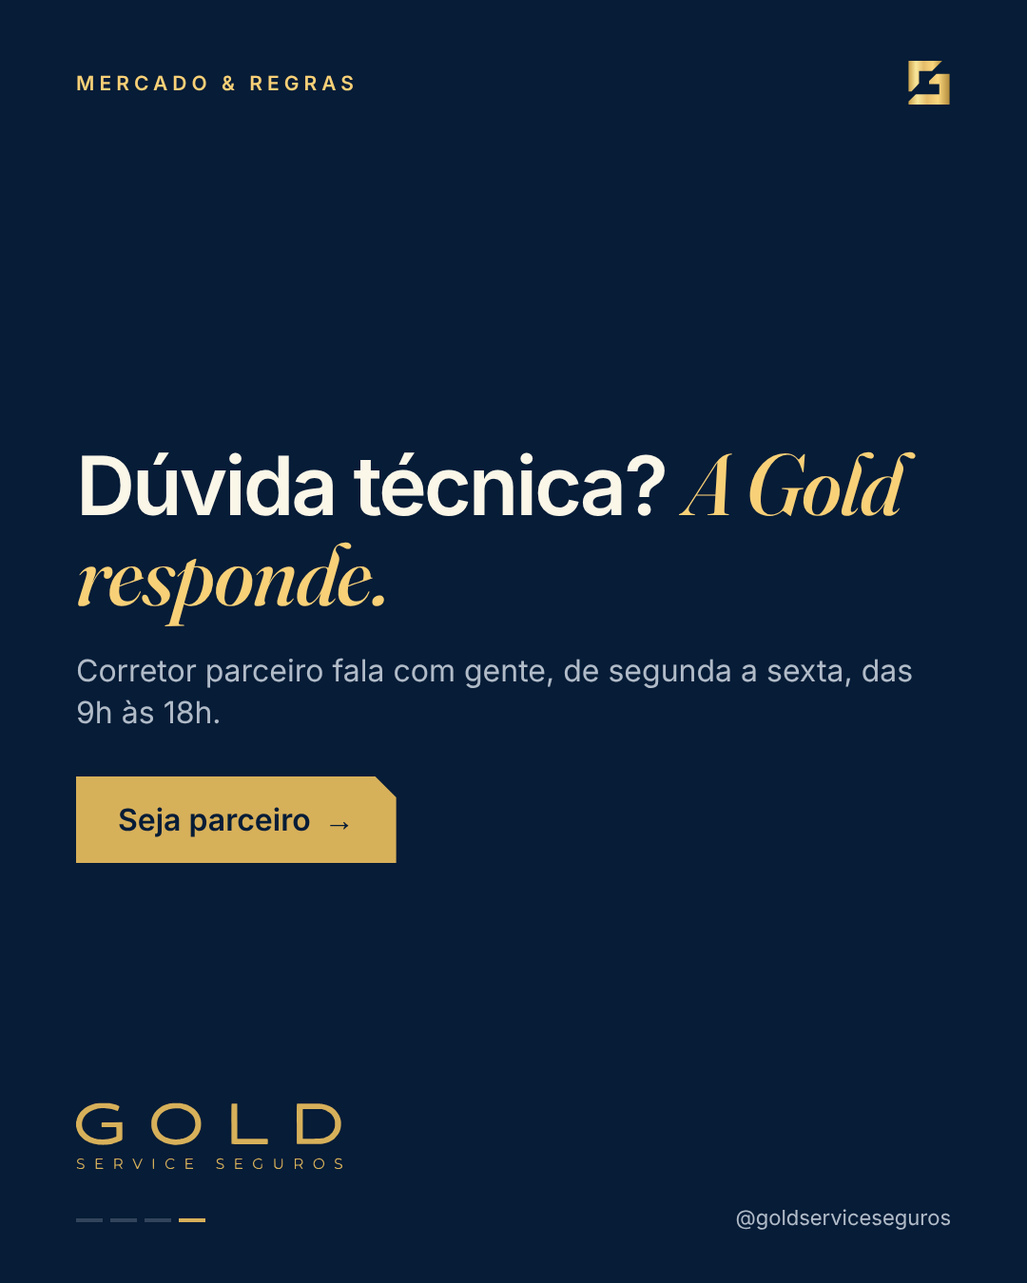
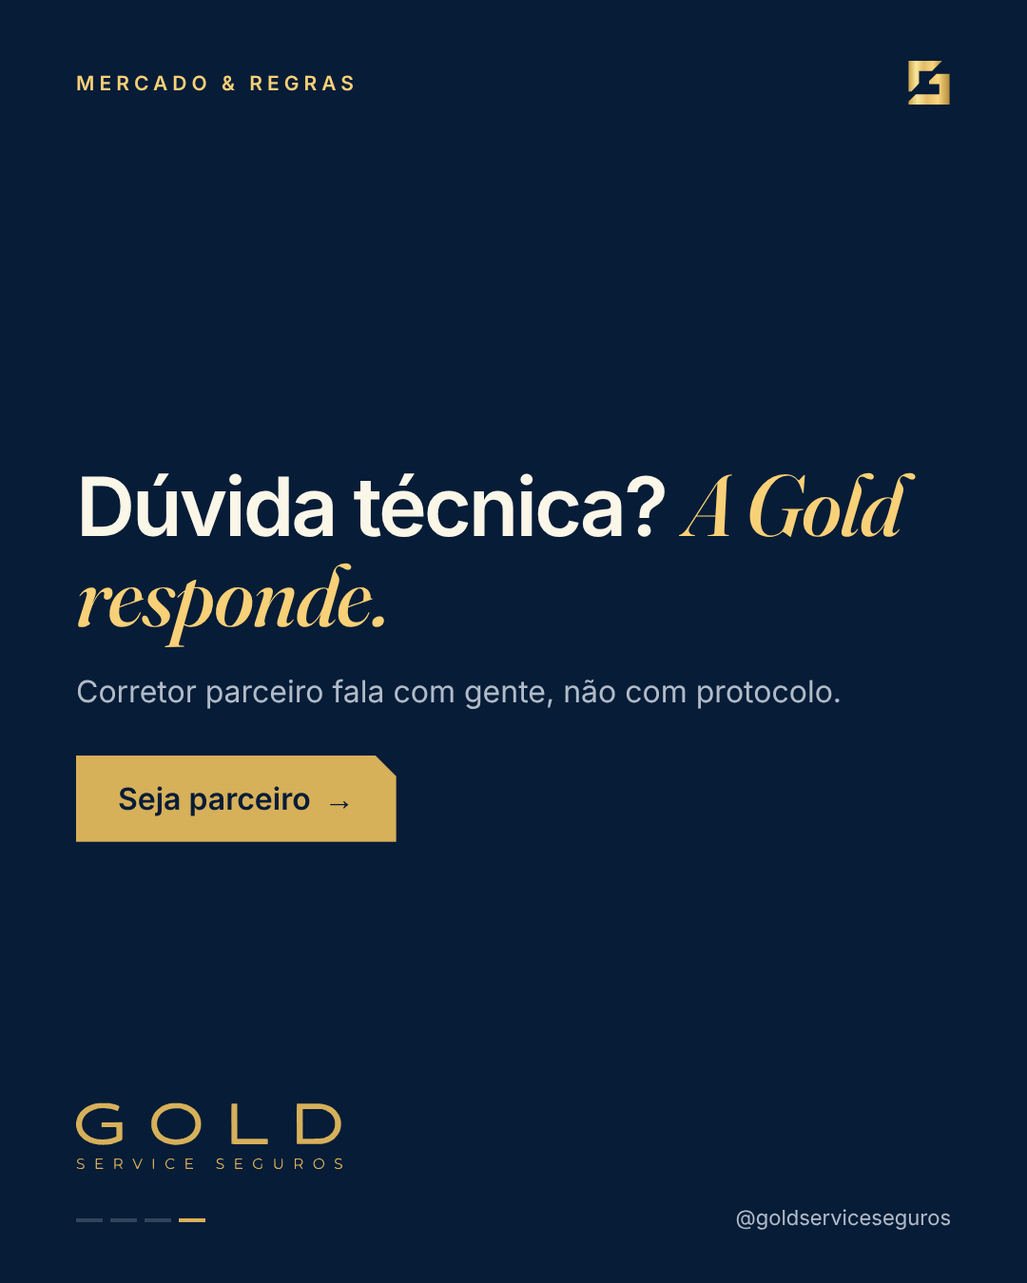
Tira o horário de atendimento de todos os posts e da voz da esteira
Claude-Session: https://claude.ai/code/session_01P6fnS5GPBSSnL9WmmhDJF1

Changed region(s): [[0.0611, 0.3422, 0.8861, 0.6844]]

diff --git a/brand/carrosseis-v3/02-nova-lei-do-seguro/v1/slide-04.html b/brand/carrosseis-v3/02-nova-lei-do-seguro/v1/slide-04.html
@@ -62,7 +62,7 @@ em{font-family:Fraunces,Georgia,serif;font-style:italic;font-weight:500;color:va
 </style></head>
 <body class="navy" data-size="1080x1350" style="width:1080px;height:1350px;">
   <div class="topo"><span class="eb">Mercado & regras</span><img src="../../assets/monograma.svg" alt=""></div>
-  <div class="miolo centro" style="top:160px;bottom:140px"><h1 class="titulo ">Dúvida técnica? <em>A Gold responde.</em></h1><p class="apoio">Corretor parceiro fala com gente, de segunda a sexta, das 9h às 18h.</p><span class="botao">Seja parceiro <span>→</span></span></div>
+  <div class="miolo centro" style="top:160px;bottom:140px"><h1 class="titulo ">Dúvida técnica? <em>A Gold responde.</em></h1><p class="apoio">Corretor parceiro fala com gente, não com protocolo.</p><span class="botao">Seja parceiro <span>→</span></span></div>
   <div class="wordmark"><svg xmlns="http://www.w3.org/2000/svg" viewBox="0 0 1724 432"><path fill="currentColor" fill-rule="evenodd" d="M19.5,431.0C19.2,430.5 16.6,429.4 13.8,428.5C7.7,426.7 5.0,424.5 5.0,421.3C5.0,418.2 8.9,418.2 14.4,421.4C19.3,424.2 31.2,425.6 37.0,424.0C41.4,422.8 47.0,417.0 47.0,413.6C47.0,409.6 41.2,404.3 34.3,402.0C30.9,400.9 26.8,400.0 25.3,400.0C21.6,399.9 14.2,396.5 10.8,393.3C9.1,391.6 7.6,388.8 6.9,385.4C5.2,378.0 6.7,373.4 12.4,368.2C17.6,363.4 21.9,362.5 34.6,363.3C43.5,363.8 51.2,366.9 51.8,370.3C52.4,373.1 49.1,373.4 42.1,371.2C25.1,365.7 10.9,371.8 14.0,383.2C15.5,388.6 18.8,390.9 29.1,393.6C34.2,394.9 39.1,396.0 40.1,396.0C42.8,396.0 51.1,403.0 52.6,406.6C55.8,414.3 53.3,424.1 47.2,427.2C45.4,428.1 43.1,429.5 42.1,430.4C40.7,431.6 38.1,432.0 30.2,432.0C24.7,432.0 19.8,431.6 19.5,431.0ZM127.6,428.2C127.3,426.2 127.0,411.2 127.0,394.9C127.0,373.3 127.3,365.1 128.2,364.2C129.5,362.9 168.3,362.4 171.4,363.6C172.3,363.9 173.0,365.0 173.0,365.9C173.0,369.6 171.0,370.0 154.4,370.0C145.5,370.0 137.5,370.3 136.6,370.6C134.2,371.5 134.2,392.5 136.6,393.4C137.5,393.7 144.5,394.0 152.3,394.0C160.1,394.0 167.1,394.4 167.8,394.9C168.6,395.4 169.0,396.6 168.8,397.6C168.5,399.4 167.2,399.5 152.5,399.8C143.7,399.9 136.2,400.4 135.7,400.9C134.7,401.9 134.5,421.9 135.5,422.8C135.9,423.2 143.6,423.3 152.8,423.2C174.7,422.7 176.4,423.2 175.3,429.3L174.8,432.0L151.5,432.0L128.3,432.0L127.6,428.2ZM248.6,430.4C248.3,429.5 248.0,414.3 248.0,396.4L248.0,364.0L250.5,363.4C251.9,363.0 259.9,362.9 268.3,363.2C282.6,363.6 283.8,363.8 289.1,366.4C296.9,370.4 300.4,376.6 300.4,386.5C300.4,392.4 300.0,394.3 297.7,398.2C296.3,400.7 293.5,403.7 291.5,404.9C289.3,406.2 288.0,407.7 288.0,409.0C288.0,410.2 290.5,414.5 293.6,418.7C296.7,422.9 299.6,427.6 300.0,429.1C300.8,431.8 300.7,432.0 298.2,431.9C295.3,431.9 292.4,428.7 283.5,416.1L278.5,408.9L267.5,409.2L256.5,409.5L256.3,415.5C256.1,418.8 255.8,423.9 255.4,426.8C254.9,431.7 254.7,432.0 252.0,432.0C250.4,432.0 249.0,431.3 248.6,430.4ZM393.0,428.8C391.1,424.0 390.1,421.7 380.5,399.5C368.5,371.9 368.0,370.7 366.9,368.8C365.5,366.0 365.8,364.2 368.0,363.5C370.8,362.6 373.6,364.5 374.9,368.2C375.6,370.0 376.8,372.9 377.5,374.5C378.2,376.1 380.0,380.4 381.5,384.0C384.2,390.5 385.1,392.5 390.8,405.0C392.5,408.6 394.5,413.2 395.4,415.3C396.3,417.4 397.5,419.0 398.1,418.8C398.7,418.6 403.9,407.6 409.7,394.5C415.4,381.3 420.8,369.0 421.7,367.3C423.6,363.5 426.6,362.2 428.7,364.2C429.9,365.5 429.5,367.2 424.9,377.6C422.1,384.1 418.3,392.6 416.5,396.5C414.7,400.4 411.8,406.9 410.1,411.0C401.2,431.9 401.1,432.0 397.5,432.0C394.8,432.0 394.0,431.5 393.0,428.8ZM498.1,428.9C496.8,425.1 496.6,367.2 497.9,365.2C498.4,364.4 500.0,364.0 501.6,364.2L504.5,364.5L504.8,395.6C504.9,414.5 504.6,427.8 504.0,429.4C502.6,433.1 499.5,432.8 498.1,428.9ZM601.4,430.9C601.1,430.3 598.9,429.0 596.6,428.0C583.0,422.1 574.8,403.0 579.4,387.9C582.2,378.9 587.9,372.1 597.5,366.4C602.2,363.7 603.2,363.5 613.0,363.5C623.1,363.5 623.7,363.6 629.3,366.9C635.8,370.6 637.8,373.3 635.9,375.6C634.4,377.5 631.6,377.4 629.9,375.4C629.2,374.6 626.4,372.7 623.6,371.3C619.4,369.1 617.7,368.9 613.0,369.4C605.0,370.2 600.5,371.7 597.1,374.6C592.5,378.5 588.2,385.4 586.6,391.7C583.6,403.3 588.8,415.4 599.8,422.2C602.9,424.1 604.6,424.4 613.1,424.2C622.1,424.1 623.3,423.8 627.8,421.0C633.6,417.5 634.6,417.3 636.0,420.0C636.9,421.7 636.6,422.5 633.8,425.0C632.0,426.7 630.0,428.0 629.4,428.0C628.8,428.0 627.5,428.9 626.5,430.0C624.9,431.8 623.4,432.0 613.4,432.0C606.4,432.0 601.9,431.6 601.4,430.9ZM710.3,430.8C709.9,430.1 709.4,415.0 709.2,397.2L708.9,365.0L711.5,364.0C713.0,363.4 723.3,363.0 734.6,363.0C752.6,363.0 755.1,363.2 755.7,364.6C756.0,365.5 755.9,367.0 755.3,367.9C754.4,369.3 751.6,369.5 737.0,369.8C726.3,369.9 719.1,370.5 718.3,371.1C716.5,372.7 716.5,391.3 718.3,392.9C719.1,393.5 725.9,394.1 735.6,394.2L751.5,394.5L751.5,397.0L751.5,399.5L736.5,399.7C715.1,400.1 717.0,398.9 717.0,412.0C717.0,420.1 717.3,423.0 718.2,423.1C718.9,423.2 727.4,423.2 737.0,423.1C757.0,422.8 759.3,423.4 757.5,428.7L756.5,431.5L733.8,431.8C716.4,432.0 711.0,431.7 710.3,430.8ZM923.0,431.0C923.0,430.5 920.6,429.4 917.6,428.5C911.6,426.8 907.4,423.0 908.4,420.4C909.2,418.2 914.8,419.0 919.0,422.0C921.4,423.7 923.6,424.1 931.2,424.3C942.0,424.5 946.2,422.8 949.4,416.9L951.4,413.3L949.0,409.5C946.2,405.0 939.2,401.5 929.4,400.0C917.6,398.1 911.2,392.2 910.3,382.4C909.5,373.9 912.0,369.4 919.4,365.6C926.4,362.0 931.2,361.4 940.8,363.0C950.0,364.4 955.0,367.1 955.0,370.6C955.0,373.6 952.5,373.8 945.2,371.0C930.6,365.4 915.5,371.6 917.5,382.4C918.6,388.1 922.8,391.1 933.3,393.7C938.3,394.9 943.2,396.0 944.0,396.0C944.8,396.0 947.7,397.7 950.4,399.8C957.5,405.2 959.8,412.8 956.5,420.7C954.9,424.6 953.3,426.1 948.2,428.6C946.5,429.5 945.0,430.6 945.0,431.1C945.0,431.6 940.0,432.0 934.0,432.0C927.5,432.0 923.0,431.6 923.0,431.0ZM1030.6,429.7C1030.3,428.4 1030.0,413.5 1030.0,396.5C1029.9,368.0 1030.0,365.5 1031.7,364.3C1033.0,363.3 1038.5,363.0 1054.5,363.2L1075.5,363.5L1075.8,365.9C1076.0,367.2 1075.6,368.7 1074.8,369.1C1074.1,369.6 1065.8,370.0 1056.3,370.0C1040.3,370.0 1039.0,370.1 1038.0,371.9C1036.6,374.7 1036.7,390.2 1038.2,392.3C1039.3,393.7 1041.9,394.0 1055.5,394.2L1071.5,394.5L1071.5,397.0L1071.5,399.5L1055.6,399.8C1045.9,399.9 1039.1,400.5 1038.3,401.1C1036.7,402.5 1036.5,421.1 1038.0,422.6C1038.7,423.3 1045.1,423.5 1056.5,423.2C1071.5,422.8 1074.3,423.0 1076.4,424.4C1078.6,425.8 1078.8,426.3 1077.9,429.0L1076.8,432.0L1054.0,432.0L1031.2,432.0L1030.6,429.7ZM1170.1,430.0C1168.8,428.9 1167.1,428.0 1166.3,428.0C1164.3,428.0 1158.2,424.3 1154.9,421.0C1146.1,412.3 1142.6,397.2 1146.7,386.0C1151.6,372.9 1161.1,365.3 1175.7,362.9C1181.8,361.9 1183.9,362.0 1189.3,363.3C1198.2,365.6 1204.0,369.5 1204.0,373.2C1204.0,377.0 1200.2,377.4 1196.5,374.0C1194.0,371.7 1184.5,369.0 1179.1,369.0C1173.3,369.0 1162.8,374.2 1159.3,378.8C1154.7,384.8 1153.0,389.5 1153.0,396.3C1153.0,408.0 1158.4,416.7 1168.9,421.6C1178.1,426.0 1194.4,424.9 1197.7,419.8C1198.1,419.1 1198.7,413.8 1199.0,408.0C1199.5,397.6 1199.5,397.5 1202.0,397.5L1204.5,397.5L1204.8,410.1L1205.1,422.8L1202.3,425.0C1193.8,431.5 1192.5,432.0 1182.2,432.0C1174.1,431.9 1172.1,431.6 1170.1,430.0ZM1298.0,430.4C1297.2,429.5 1294.9,427.9 1293.0,426.7C1291.1,425.5 1288.2,422.5 1286.5,420.2L1283.5,415.8L1283.2,390.9C1282.8,365.8 1283.2,363.0 1286.4,363.0C1290.3,363.1 1290.5,364.2 1291.0,389.2C1291.5,412.3 1291.6,413.7 1293.7,416.3C1301.1,425.8 1315.7,427.6 1324.3,420.1C1330.0,415.0 1331.0,410.2 1331.1,386.9C1331.1,364.7 1331.8,361.2 1335.7,363.6C1337.3,364.6 1337.5,366.7 1337.8,385.6C1338.2,416.0 1336.8,420.6 1324.3,429.0C1320.1,431.9 1319.4,432.0 1309.7,431.9C1302.1,431.9 1299.1,431.5 1298.0,430.4ZM1416.6,430.4C1416.3,429.5 1416.0,414.3 1416.0,396.4L1416.0,364.0L1418.5,363.4C1419.9,363.0 1428.0,362.9 1436.3,363.2C1450.3,363.5 1452.0,363.8 1456.6,366.1C1465.5,370.8 1469.9,380.8 1467.9,391.6C1466.9,396.9 1463.5,402.3 1459.8,404.5C1454.8,407.4 1454.7,409.0 1459.2,415.6C1461.4,418.8 1464.1,422.4 1465.1,423.6C1467.4,426.1 1467.7,432.0 1465.5,432.0C1463.4,432.0 1458.0,425.9 1451.8,416.8L1446.6,409.0L1435.8,409.0C1423.1,409.0 1422.7,409.4 1423.1,419.4C1423.5,431.3 1423.4,432.0 1420.1,432.0C1418.4,432.0 1417.0,431.4 1416.6,430.4ZM1560.0,431.1C1560.0,430.6 1557.4,428.9 1554.3,427.3C1543.9,422.2 1537.0,409.9 1537.0,396.8C1537.0,378.9 1547.6,366.6 1565.9,363.1C1586.4,359.1 1605.5,373.3 1607.7,394.2C1608.4,401.0 1605.5,410.9 1600.8,417.8C1597.8,422.1 1590.7,428.0 1588.5,428.0C1587.8,428.0 1586.1,428.9 1584.7,430.0C1582.5,431.7 1580.7,432.0 1571.1,432.0C1564.9,432.0 1560.0,431.6 1560.0,431.1ZM1687.5,430.4C1686.4,429.6 1683.6,428.4 1681.3,427.8C1678.7,427.2 1676.5,425.8 1675.4,424.3C1673.9,421.9 1673.9,421.6 1675.8,419.7L1677.9,417.7L1682.7,420.7C1686.5,423.1 1689.1,423.9 1694.8,424.4C1703.7,425.2 1708.8,424.0 1712.9,420.1C1721.2,412.4 1712.6,402.5 1695.6,400.1C1688.4,399.0 1681.9,395.6 1678.5,391.0C1675.0,386.3 1674.9,375.7 1678.2,371.4C1685.0,362.6 1694.3,360.3 1709.4,363.5C1717.0,365.1 1720.0,367.1 1720.0,370.6C1720.0,374.1 1718.4,374.4 1713.2,371.8C1706.3,368.5 1695.1,368.2 1689.0,371.2C1684.0,373.8 1682.6,377.0 1683.6,383.2C1684.4,388.5 1688.5,391.1 1700.5,393.9C1711.6,396.5 1715.9,398.6 1720.8,403.8C1723.7,407.0 1724.0,407.8 1724.0,413.8C1724.0,419.9 1723.8,420.5 1720.2,424.1C1718.2,426.3 1716.0,428.0 1715.4,428.0C1714.8,428.0 1713.1,428.9 1711.7,430.0C1709.6,431.7 1707.7,432.0 1699.3,432.0C1692.1,431.9 1689.0,431.5 1687.5,430.4ZM1583.5,421.7C1590.5,418.2 1594.1,414.8 1597.1,408.9C1602.7,397.7 1600.2,385.1 1590.7,376.3C1585.4,371.4 1580.1,369.6 1570.5,369.6C1562.2,369.6 1557.3,371.7 1551.7,377.9C1548.3,381.7 1544.0,392.4 1544.0,397.1C1544.0,400.3 1548.2,411.2 1550.9,415.1C1553.5,418.8 1561.7,423.5 1567.0,424.3C1571.5,425.0 1579.4,423.8 1583.5,421.7ZM282.3,401.0C289.3,398.4 292.1,395.3 292.7,389.6C293.5,382.8 292.3,378.4 288.7,375.0C284.6,371.2 278.1,369.8 266.0,370.2L256.5,370.5L256.2,385.5C256.1,393.7 256.2,401.0 256.4,401.7C257.3,403.9 275.8,403.4 282.3,401.0ZM1449.1,401.5C1458.3,398.3 1462.0,392.2 1460.6,382.7C1459.8,377.7 1455.6,373.0 1450.1,371.1C1448.2,370.5 1441.8,370.0 1435.8,370.0C1425.1,370.0 1424.9,370.0 1424.0,372.6C1422.7,376.0 1422.7,398.6 1424.0,401.1C1425.0,402.8 1426.2,403.0 1434.9,403.0C1441.0,403.0 1446.3,402.4 1449.1,401.5ZM152.5,274.0C149.2,273.5 141.9,272.7 136.2,272.1C130.5,271.4 124.8,270.5 123.3,269.9C121.9,269.4 117.7,268.5 114.0,268.0C110.4,267.5 106.0,266.4 104.4,265.5C102.8,264.7 100.8,264.0 100.0,264.0C99.2,264.0 96.7,263.1 94.5,262.0C92.3,260.9 89.9,260.1 89.2,260.0C88.5,260.0 86.2,259.1 84.2,258.1C82.2,257.0 76.0,254.0 70.5,251.4C56.7,244.7 47.5,237.8 33.9,223.9C20.2,209.9 15.6,202.7 6.6,180.5C5.7,178.3 4.5,173.9 4.0,170.6C3.5,167.4 2.4,163.7 1.5,162.4C0.3,160.5 0.0,156.6 0.0,142.2C0.0,126.4 0.2,124.0 2.0,120.5C3.1,118.3 4.0,115.3 4.0,113.8C4.0,110.3 7.5,98.6 10.1,93.8C11.1,91.8 12.0,89.5 12.0,88.8C12.1,87.3 19.5,75.0 25.6,66.3C27.9,63.1 33.1,57.3 37.1,53.5C45.3,45.7 62.7,32.0 64.3,32.0C64.9,32.0 66.1,31.4 66.9,30.6C68.7,29.0 86.0,20.0 87.3,20.0C87.8,20.0 89.6,19.3 91.3,18.5C95.3,16.7 102.1,14.2 108.0,12.5C110.5,11.7 114.5,10.4 117.0,9.6C123.3,7.5 133.6,5.9 146.5,5.0C161.3,3.9 211.4,3.9 217.0,5.0C219.5,5.5 225.3,6.6 230.0,7.4C234.7,8.3 240.8,9.7 243.5,10.6C246.2,11.4 251.7,13.0 255.5,14.2C259.4,15.3 264.5,17.1 267.0,18.0C269.5,19.0 272.9,20.4 274.7,21.0C281.5,23.5 282.3,27.6 277.9,36.0C276.8,37.9 276.0,40.2 276.0,41.0C276.0,41.9 275.4,43.5 274.6,44.6C273.8,45.7 272.7,48.5 272.1,50.8C270.8,55.5 268.6,56.2 263.4,53.5C261.8,52.7 259.8,52.0 259.0,52.0C258.2,52.0 256.2,51.3 254.6,50.5C253.0,49.6 250.0,48.5 248.1,48.0C246.1,47.5 242.5,46.5 240.0,45.6C228.7,41.9 218.2,40.2 192.0,38.0C174.5,36.5 139.4,39.2 131.2,42.6C129.3,43.4 127.0,44.0 126.1,44.0C124.6,44.0 120.1,45.6 108.5,50.2C90.8,57.3 70.3,71.2 61.7,81.8C56.3,88.6 48.0,100.8 48.0,102.0C48.0,102.6 47.1,104.8 46.1,106.8C39.6,119.4 37.0,136.2 38.9,152.2C40.7,166.5 44.0,175.1 52.9,188.5C61.7,201.7 76.6,214.7 91.0,221.6C101.1,226.5 104.8,228.0 106.1,228.0C106.9,228.0 108.8,228.7 110.4,229.5C112.0,230.4 115.0,231.5 116.9,232.0C118.9,232.5 122.5,233.5 125.0,234.3C136.7,238.1 149.2,239.5 171.0,239.5C199.6,239.5 213.5,237.4 240.0,229.3C244.7,227.8 249.4,226.0 250.5,225.3C251.6,224.6 253.2,224.0 254.2,224.0C255.1,224.0 257.0,223.0 258.4,221.8L261.0,219.5L261.1,190.7C261.1,174.9 260.8,161.5 260.5,161.0C260.1,160.4 243.4,160.0 214.0,160.0C188.8,160.0 167.5,159.7 166.6,159.4C165.2,158.9 165.0,156.7 165.0,145.1C165.0,137.6 165.4,130.9 165.9,130.1C166.7,128.9 177.4,128.7 233.2,128.6L299.5,128.5L299.8,183.9C300.0,229.5 299.8,239.7 298.6,241.4C297.3,243.5 285.6,249.7 275.0,254.0C272.0,255.2 267.6,257.1 265.2,258.1C262.9,259.1 260.3,260.0 259.5,260.0C258.7,260.0 256.3,260.9 254.3,262.0C252.2,263.1 249.6,264.0 248.4,264.0C247.2,264.0 243.8,264.8 240.8,265.9C229.9,269.7 222.2,271.1 196.0,274.0C186.2,275.1 161.3,275.1 152.5,274.0ZM627.0,273.4C601.3,270.1 586.7,266.7 574.3,261.4C565.0,257.3 552.0,250.7 550.9,249.4C550.3,248.6 549.4,248.0 548.9,248.0C548.5,248.0 546.6,247.0 544.8,245.7C524.4,231.8 516.0,223.0 503.3,202.5C500.8,198.4 496.0,188.6 496.0,187.6C496.0,187.0 495.4,185.3 494.6,183.8C493.8,182.3 491.9,176.3 490.4,170.3C487.7,160.1 487.5,158.4 487.6,139.0C487.7,120.1 487.9,117.7 490.3,108.5C491.8,103.0 493.7,96.7 494.6,94.5C496.5,89.7 500.0,82.1 501.2,80.0C501.6,79.2 502.6,77.4 503.3,76.0C503.9,74.6 506.7,70.3 509.3,66.3C515.9,56.6 537.1,36.2 545.5,31.6C547.1,30.7 550.3,28.9 552.5,27.6C558.5,24.0 574.9,16.0 576.2,16.0C576.8,16.0 579.1,15.1 581.4,14.1C586.4,11.8 598.0,8.8 611.5,6.3C619.5,4.9 626.8,4.5 648.0,4.5C675.0,4.5 676.0,4.6 696.0,9.1C698.5,9.7 702.8,10.6 705.5,11.2C708.2,11.7 712.4,13.1 714.8,14.1C717.1,15.1 719.6,16.0 720.2,16.0C720.8,16.0 723.1,16.8 725.4,17.9C727.7,18.9 730.6,20.3 732.0,20.9C733.4,21.5 735.9,22.9 737.5,24.0C739.1,25.1 741.6,26.5 743.0,27.2C746.7,29.1 756.7,35.9 763.6,41.2C771.4,47.2 781.8,58.5 787.7,67.4C790.2,71.3 793.1,75.7 794.1,77.2C795.2,78.7 796.0,80.3 796.0,80.7C796.0,81.1 796.9,83.3 797.9,85.5C802.4,94.8 804.0,98.8 804.0,100.2C804.0,101.0 804.8,104.1 805.9,107.1C809.1,116.6 810.3,136.2 808.7,153.5C807.3,168.1 805.8,174.9 801.9,183.8C800.8,186.1 800.0,188.5 800.0,189.1C800.0,190.4 791.5,205.3 787.6,210.8C780.9,220.1 775.1,227.0 771.0,230.7C761.8,238.7 756.0,243.6 752.6,246.1C746.7,250.5 717.7,264.0 714.4,264.0C713.6,264.0 710.4,264.8 707.3,265.9C692.7,270.6 662.5,275.1 646.4,274.9C641.5,274.8 632.8,274.2 627.0,273.4ZM1007.2,269.8C1006.3,268.9 1006.0,238.4 1006.0,138.9C1006.0,21.6 1006.2,9.2 1007.6,8.6C1008.5,8.3 1016.7,8.0 1026.0,8.0C1040.5,8.0 1042.9,8.2 1043.4,9.6C1043.7,10.5 1044.0,61.4 1044.0,122.7C1044.0,184.0 1044.2,234.5 1044.5,235.1C1044.9,235.6 1082.3,236.0 1142.4,236.0C1216.7,236.0 1239.9,236.3 1240.8,237.2C1242.4,238.8 1242.4,264.9 1240.8,268.5L1239.7,271.0L1124.0,271.0C1035.4,271.0 1008.1,270.7 1007.2,269.8ZM1430.8,268.9C1429.1,268.0 1429.0,260.7 1429.0,139.1C1429.0,28.2 1429.2,10.1 1430.4,9.1C1431.5,8.1 1450.1,8.0 1508.7,8.3C1582.4,8.7 1586.0,8.8 1597.0,10.8C1603.3,12.0 1610.2,13.7 1612.3,14.5C1614.3,15.3 1617.0,16.0 1618.1,16.0C1619.2,16.0 1622.5,16.9 1625.3,18.1C1628.2,19.2 1632.8,21.1 1635.5,22.2C1647.4,27.0 1653.1,30.1 1667.0,39.7C1680.0,48.6 1693.0,64.5 1703.0,83.7C1708.0,93.3 1711.2,102.4 1714.0,115.8C1715.9,124.7 1716.1,128.4 1715.8,142.3C1715.3,158.8 1713.8,168.3 1709.9,178.5C1708.9,181.3 1708.0,184.1 1708.0,184.9C1708.0,186.4 1700.4,201.2 1697.5,205.4C1690.6,215.1 1679.4,228.4 1673.5,233.8C1669.6,237.2 1666.2,240.0 1665.8,240.0C1665.5,240.0 1662.3,241.9 1658.8,244.2C1653.1,248.1 1643.4,253.2 1632.5,258.0C1622.6,262.4 1600.6,267.5 1585.1,269.0C1571.1,270.4 1433.1,270.3 1430.8,268.9ZM675.1,237.1C681.4,236.0 687.9,234.6 689.6,234.0C691.2,233.4 694.7,232.4 697.3,231.9C703.0,230.9 724.3,220.5 732.0,215.0C740.3,209.1 750.2,199.8 753.5,194.9C755.1,192.5 757.1,189.6 758.0,188.5C762.2,183.4 769.0,164.4 771.2,152.0C773.3,140.4 770.2,114.3 765.6,104.5C764.8,102.8 763.7,100.4 763.1,99.0C759.5,91.2 753.7,83.5 744.6,74.5C736.9,66.8 730.3,61.8 719.5,55.3C712.3,50.9 694.7,44.0 690.9,44.0C690.0,44.0 686.6,43.2 683.4,42.1C679.6,40.9 670.9,39.8 658.9,39.0C637.9,37.5 626.4,38.3 608.5,42.6C595.8,45.6 594.4,46.2 575.5,55.8C563.3,62.1 546.4,77.0 539.7,87.5C535.5,94.1 534.6,95.6 530.6,104.0C525.1,115.7 522.3,142.2 525.5,154.0C526.5,157.6 527.6,162.3 528.0,164.5C528.4,166.7 529.5,169.8 530.4,171.5C531.3,173.2 532.0,175.0 532.0,175.7C532.0,178.5 542.5,195.6 547.9,201.4C554.4,208.5 568.6,218.9 578.8,224.1C581.1,225.3 583.3,226.6 583.6,227.1C583.9,227.6 584.9,228.0 585.8,228.0C586.7,228.0 589.7,228.9 592.5,229.9C602.5,233.7 620.3,238.0 630.5,239.1C641.4,240.3 662.3,239.3 675.1,237.1ZM1589.5,233.2C1597.2,232.1 1605.3,230.5 1607.5,229.5C1615.3,226.1 1620.5,223.7 1624.2,221.9C1626.2,220.8 1628.5,220.0 1629.3,220.0C1630.1,220.0 1631.4,219.3 1632.1,218.4C1632.8,217.5 1634.2,216.5 1635.1,216.1C1636.0,215.8 1640.2,212.7 1644.3,209.3C1655.6,200.0 1661.9,191.7 1669.7,175.5C1670.5,173.9 1672.3,169.2 1673.7,165.0C1676.0,158.1 1676.2,156.1 1676.2,139.0C1676.3,121.7 1676.1,120.0 1673.7,113.0C1671.1,105.4 1667.1,96.1 1664.8,92.6C1660.5,86.0 1654.6,77.7 1652.6,75.6C1648.9,71.5 1638.3,63.3 1633.7,61.0C1631.4,59.8 1627.7,57.7 1625.5,56.4C1623.3,55.1 1619.9,53.3 1618.0,52.5C1616.1,51.6 1613.6,50.5 1612.5,49.9C1611.4,49.4 1606.2,47.8 1601.0,46.3L1591.5,43.6L1532.0,43.3C1499.3,43.1 1471.5,43.2 1470.3,43.5L1468.0,44.0L1468.0,139.4C1468.0,191.8 1468.3,235.0 1468.7,235.4C1469.2,235.8 1493.3,236.0 1522.5,235.7C1568.6,235.3 1577.3,235.0 1589.5,233.2Z"/></svg></div>
   <div class="progresso"><i></i><i></i><i></i><i class="on"></i></div>
   <div class="rodape">@goldserviceseguros</div>

diff --git a/brand/carrosseis-v3/10-manifesto-faz-nao-faz/v1/slide-02.html b/brand/carrosseis-v3/10-manifesto-faz-nao-faz/v1/slide-02.html
@@ -62,7 +62,7 @@ em{font-family:Fraunces,Georgia,serif;font-style:italic;font-weight:500;color:va
 </style></head>
 <body class="navy" data-size="1080x1350" style="width:1080px;height:1350px;">
   <div class="topo"><span class="eb">Quem somos</span><img src="../../assets/monograma.svg" alt=""></div>
-  <div class="miolo centro" style="top:160px;bottom:140px"><h1 class="titulo m">Clareza desde o primeiro contato.</h1><div class="duas"><div class="card inv"><span class="rot">A Gold faz</span><ul><li>Conecta você às seguradoras parceiras com um cadastro só</li><li>Atende por pessoa, de segunda a sexta, das 9h às 18h</li><li>Acompanha cotação, emissão e sinistro com você</li></ul></div><div class="card"><span class="rot">A Gold não faz</span><ul><li>Não fala com o seu cliente no seu lugar</li><li>Não promete aprovação nem indenização</li><li>Não troca atendimento por protocolo</li></ul></div></div></div>
+  <div class="miolo centro" style="top:160px;bottom:140px"><h1 class="titulo m">Clareza desde o primeiro contato.</h1><div class="duas"><div class="card inv"><span class="rot">A Gold faz</span><ul><li>Conecta você às seguradoras parceiras com um cadastro só</li><li>Atende por pessoa, que conhece a sua carteira</li><li>Acompanha cotação, emissão e sinistro com você</li></ul></div><div class="card"><span class="rot">A Gold não faz</span><ul><li>Não fala com o seu cliente no seu lugar</li><li>Não promete aprovação nem indenização</li><li>Não troca atendimento por protocolo</li></ul></div></div></div>
   <div class="progresso"><i></i><i class="on"></i><i></i><i></i><i></i></div>
   <div class="rodape">@goldserviceseguros</div>
 

diff --git a/brand/carrosseis-v3/13-credenciais-gold/v1/slide-01.html b/brand/carrosseis-v3/13-credenciais-gold/v1/slide-01.html
@@ -62,7 +62,7 @@ em{font-family:Fraunces,Georgia,serif;font-style:italic;font-weight:500;color:va
 </style></head>
 <body class="navy foto" data-size="1080x1350" style="width:1080px;height:1350px; background-image:url('../../assets/fundos/13.jpg');background-position:center -70px;">
   <div class="topo"><span class="eb">Quem somos</span><img src="../../assets/monograma.svg" alt=""></div>
-  <div class="miolo" style="top:160px"><span class="num" style="font-size:210px">17<span style="font-size:96px"> anos</span></span><h1 class="titulo m">de assessoria a corretores, <em>desde 2009.</em></h1><p class="apoio">Gold Service Seguros · Belo Horizonte, MG · CNPJ 10.875.768/0001-62</p><div class="extras" style="width:62%"><div class="card"><b>500+</b><span>corretores parceiros</span></div><div class="card"><b>9h–18h</b><span>segunda a sexta</span></div><div class="card"><b>7 dias</b><span>para aprovar o cadastro</span></div></div></div>
+  <div class="miolo" style="top:160px"><span class="num" style="font-size:210px">17<span style="font-size:96px"> anos</span></span><h1 class="titulo m">de assessoria a corretores, <em>desde 2009.</em></h1><p class="apoio">Gold Service Seguros · Belo Horizonte, MG · CNPJ 10.875.768/0001-62</p><div class="extras" style="width:62%"><div class="card"><b>500+</b><span>corretores parceiros</span></div><div class="card"><b>7 dias</b><span>para aprovar o cadastro</span></div></div></div>
 <script>(()=>{const[t,b]=[1093,1440];const m=document.querySelector('.miolo').getBoundingClientRect().bottom;
 const d=Math.max(0,Math.min(270,b-1250,t-(m+36)));document.body.style.backgroundPosition='center -'+d+'px'})()</script>
 

diff --git a/brand/carrosseis-v3/05-atendimento-por-pessoa/v1/slide-01.html b/brand/carrosseis-v3/05-atendimento-por-pessoa/v1/slide-01.html
@@ -62,7 +62,7 @@ em{font-family:Fraunces,Georgia,serif;font-style:italic;font-weight:500;color:va
 </style></head>
 <body class="navy foto" data-size="1080x1350" style="width:1080px;height:1350px; background-image:url('../../assets/fundos/05.jpg');background-position:center -70px;">
   <div class="topo"><span class="eb">Gente Gold</span><img src="../../assets/monograma.svg" alt=""></div>
-  <div class="miolo" style="top:160px"><span class="num" style="font-size:210px">9h–18h</span><h1 class="titulo m">de segunda a sexta, com <em>gente</em> do outro lado.</h1><p class="apoio">Atendimento por pessoa, não por protocolo.</p><div class="extras" style="width:62%"><div class="card"><b>1</b><span>cadastro, várias seguradoras</span></div><div class="card"><b>7 dias</b><span>para aprovar o cadastro</span></div></div></div>
+  <div class="miolo" style="top:160px"><span class="num" style="font-size:210px">1<span style="font-size:96px"> cadastro</span></span><h1 class="titulo m">para acessar <em>várias seguradoras</em> parceiras.</h1><p class="apoio">Atendimento por pessoa, não por protocolo.</p><div class="extras" style="width:62%"><div class="card"><b>500+</b><span>corretores parceiros</span></div><div class="card"><b>7 dias</b><span>para aprovar o cadastro</span></div></div></div>
 <script>(()=>{const[t,b]=[1036,1476];const m=document.querySelector('.miolo').getBoundingClientRect().bottom;
 const d=Math.max(0,Math.min(270,b-1250,t-(m+36)));document.body.style.backgroundPosition='center -'+d+'px'})()</script>
 

diff --git a/brand/carrosseis-v3/18-mande-sua-cotacao/v1/slide-01.html b/brand/carrosseis-v3/18-mande-sua-cotacao/v1/slide-01.html
@@ -62,7 +62,7 @@ em{font-family:Fraunces,Georgia,serif;font-style:italic;font-weight:500;color:va
 </style></head>
 <body class="claro foto" data-size="1080x1350" style="width:1080px;height:1350px; background-image:url('../../assets/fundos/18.jpg');background-position:center -70px;">
   <div class="topo"><span class="eb">Parceria Gold</span><img src="../../assets/monograma-navy.svg" alt=""></div>
-  <div class="miolo" style="top:160px"><h1 class="titulo ">Mande sua próxima cotação <em>para a Gold.</em></h1><p class="apoio">Uma pessoa da equipe atende você, de segunda a sexta, das 9h às 18h.</p><span class="botao">Fale com a Gold <span>→</span></span></div>
+  <div class="miolo" style="top:160px"><h1 class="titulo ">Mande sua próxima cotação <em>para a Gold.</em></h1><p class="apoio">Uma pessoa da equipe atende você e compara as seguradoras parceiras.</p><span class="botao">Fale com a Gold <span>→</span></span></div>
 <script>(()=>{const[t,b]=[790,1440];const m=document.querySelector('.miolo').getBoundingClientRect().bottom;
 const d=Math.max(0,Math.min(270,b-1250,t-(m+36)));document.body.style.backgroundPosition='center -'+d+'px'})()</script>
 

diff --git a/brand/carrosseis-v3/GOSTO.md b/brand/carrosseis-v3/GOSTO.md
@@ -9,6 +9,8 @@
 - Prometer prazo de resposta ("20 minutos"). (2026-11-25: "não é possível prometer isso")
 - Dizer que "a apólice não pagou": o termo é indenização ("Não houve indenização?"). (2026-11-25)
 
+- Citar horário de atendimento (9h–18h, segunda a sexta, horário comercial). (2026-11-25: "melhor não citar")
+
 ### Sempre
 - Imagem de fundo gerada inteira, do tamanho do slide, com o prompt dizendo em que faixa da imagem o texto vai ficar (zona livre). (2026-11-25: "a imagem completa de fundo deve ser gerada... oriente na geração onde a info deve ficar")
 - Usar o azul (navy #061C37) como fundo em parte dos slides: capas alternam navy/marfim por post, internos alternam, CTA de carrossel sempre navy. (2026-11-25)
@@ -20,3 +22,4 @@
 |---|---|---|---|---|
 | 2026-11-25 | 19 posts (v3) | todos | "mistura com o design system, para de criar sombras... use tbm o azul no fundo" + fundo inteiro gerado com zona do texto | gerar.mjs novo; fundos 3D 1 por capa gerados no Codex (prompts em assets/fundos/prompts.json) |
 | 2026-11-25 | 19 posts (v3) | copy | revisão do Guilherme | renovação a partir dos 30 dias (30/20/10); sem "20 minutos" em nenhum post; sem "crescer sem apoio comercial"; "Não houve indenização?" no lugar de "a apólice não pagou"; exclusões residencial com 3 itens (slide "E também" removido); chuvas: alagamento no residencial, granizo no auto |
+| 2026-11-25 | 19 posts (v3) | copy | "esse 9-18h tá horrível" | horário tirado de todos os posts; post 05 virou "1 cadastro para acessar várias seguradoras" |
